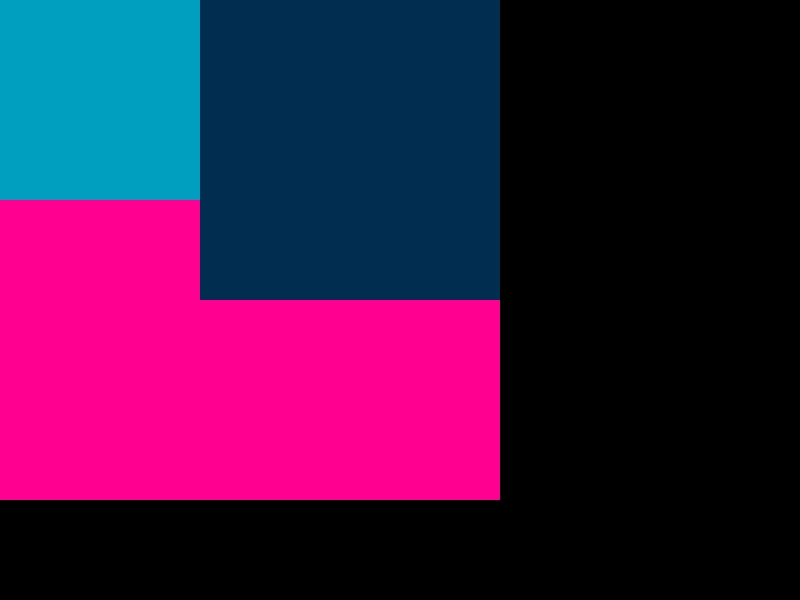
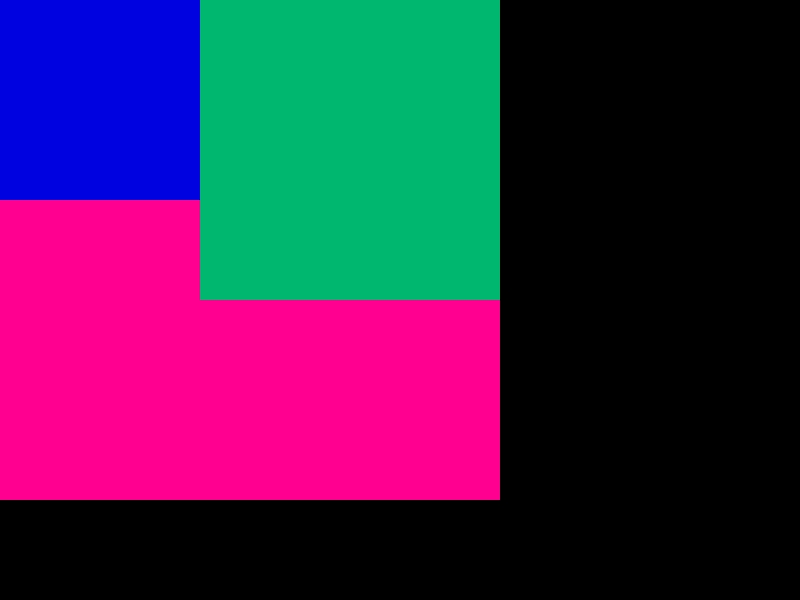
URL

Changed region(s): [[0.0, 0.0, 0.625, 0.51]]

diff --git a/node/http-bowser-process/css属性解析/css-attribute-dom.js b/node/http-bowser-process/css属性解析/css-attribute-dom.js
@@ -24,7 +24,8 @@ let cssStr = `
     height: 500px;
     background-color: rgb(255,0,0);
 }
-.main {
+
+.wrap .main {
     width: 200px;
     height: 200px;
     background-color: rgb(0,255,0);
@@ -41,6 +42,7 @@ let currentToken = null;
 let currentAttribute = null;
 let stack = [{ type: 'document', children: [] }];
 parse(htmlStr);
+console.log(rules)
 console.log(JSON.stringify(rules))
 console.log(JSON.stringify(stack[0], null, 2))
     //拿到整颗树 
@@ -89,6 +91,16 @@ viewImage.save('render.jpg')
 //     }
 // }
 
+
+
+/**
+ * 
+ * @param {String} selector 
+ * @param {JSON} ele 
+ * @function 判断样式的类型，若匹配成功则返回true,匹配不成功则返回false
+ * 
+ * 
+ */
 function match(selector, ele) {
     if (!selector || !ele.attributes) {
         return false;
@@ -115,14 +127,22 @@ function computerCss(ele) {
     // tagName #id  .className
     // .parent .cls
     // div  || div .cls  || span #parentID .parent #id
+
+    //stack.slice(0) 存在子元素和父元素 翻转则先从子元素中查找样式
+    console.log("elements----------JSON", JSON.stringify(stack.slice(0).reverse()))
     let elements = stack.slice(0).reverse();
+    console.log("elements----------", elements)
+        //若没有computerStyle属性，则初始化css属性
     if (!ele.computerStyle) ele.computerStyle = {};
     // 所有 css 规则
     for (let rule of rules) {
+        //selector [ '.main', '.wrap' ] 将样式名翻转从子样式中开始到父级结束找（从内到外查找样式）
+        //console.log(" rule.selectors[0]", rule.selectors[0]);//.wrap .main
         let selector = rule.selectors[0].split(' ').reverse();
+        // console.log("selector", selector);
         // 最后一项匹配上了
         if (!match(selector[0], ele)) {
-            // 跳过本轮循环，往后的步骤
+            // 匹配没有成功跳过本轮循环，往后的步骤
             continue;
         }
         // 看父级满不满足  
@@ -130,11 +150,13 @@ function computerCss(ele) {
         // [#id .parent  #parentID  span]
         let j = 1;
         for (let i = 0; i < elements.length; i++) {
+            //当css样式匹配上则j++
             if (match(selector[j], elements[i])) j++
         }
-        // 匹配
+        // 匹配 判断j的大小 判断将当前选择器的样全部匹配完
         if (j >= selector.length) {
             // rule rule css 规则添加到 ele
+            //当全部匹配成功则将样式添加到element.computerStyle属性中
             for (let delecare of rule.declarations) {
                 const { property, value } = delecare;
                 ele.computerStyle[property] = value
@@ -181,11 +203,19 @@ function emit(token) {
 
         // 知道 attributes , 知道 stack 里面元素 是 element 父节点
         //遇到一个开始标签则匹配一下css样式
+        /**
+         * 每一次提交标签 都会将没有添加css样式的元素去找css匹配一下
+         * element是引用类型 则不要定义全局变量
+         * 形参修改则实参也会修改：赋予地址给形参
+         * */
+        console.log("element前", element)
         computerCss(element);
+        console.log("element后", element)
+
         stack.push(element);
-        console.log("stack", JSON.stringify(stack))
-            // 作为栈顶的元素子节点，为了生成树
-            // if (!top.children) top.children = [];
+        //console.log("stack", JSON.stringify(stack))
+        // 作为栈顶的元素子节点，为了生成树
+        // if (!top.children) top.children = [];
         top.children.push(element);
     } else if (token.type === 'endTag') {
         if (token.tagName !== top.tagName) {
@@ -260,10 +290,17 @@ function tagName(c) { //记录标签的类型和字符
         return start
     }
 }
-
+/**
+ * 入口：attributeValue，tagName在这两个函数过来
+ * 功能：1. 遇见‘/’则是单标签--判断是否为单标签 
+ *      2. 遇见空格 则自我消化--消除空格
+ *      3. 遇见字母则是为样式名--拼接样式名字
+ *      4. 遇见 '>' 则是结束了该标签的拼接工作交给tagName函数去提交
+ */
 function beforeAttaibuteName(c) {
     //attributeValue在这个函数过来的要是‘/’则是单标签
     if (c === '/') { //遇见‘/’则是结束
+        //修改标签类型
         currentToken.type = 'selfCloseToken';
         return tagName;
     } else if (c.match(/[a-zA-Z]/)) { //遇见字符则是css样式名
@@ -300,8 +337,9 @@ function attributeValue(c) {
         currentAttribute.value += c;
         return attributeValue;
     } else {
-        // 空格 >
+        // 若“”之后是空格 则执行这一步
         // 消耗了
+        //若该子节点没有attributes则初始化
         if (!currentToken.attributes) currentToken.attributes = [];
         //在JSON中的attributes属性加css的类型很名字
         currentToken.attributes.push(currentAttribute);

diff --git a/node/http-bowser-process/parse-dom-1.js b/node/http-bowser-process/parse-dom-1.js
@@ -7,15 +7,16 @@ let htmlStr = `<html>
   </body>
 </html>`
 let currentToken = null;
-
+//初始化栈顶元素
 let stack = [{ type: 'document', children: [] }];
+//开始解析html字符串
 parse(htmlStr);
 console.log(JSON.stringify(stack[0], null, 2));
 
-function emit(token) {
-    console.log(token);
+function emit(token) { //提交处理好的标签
+    //console.log(token);
     let top = stack[stack.length - 1];
-    if (token.type === 'startTag') {
+    if (token.type === 'startTag') { //开始标签（标志）
         // push pop 处理配对
         let element = {
             type: 'element',
@@ -27,32 +28,34 @@ function emit(token) {
         // 作为栈顶的元素子节点，为了生成树
         // if (!top.children) top.children = [];
         top.children.push(element);
-    } else if (token.type === 'endTag') {
+    } else if (token.type === 'endTag') { //结束标签（标志）
         if (token.tagName !== top.tagName) {
             throw new Error('tagname match error')
         } else {
+            //匹配开始标签（成功）让开始标签出栈
             stack.pop();
         }
-    } else if (token.type === 'selfCloseToken') {
+    } else if (token.type === 'selfCloseToken') { //单标签（标志）
         let element = {
-            type: 'element',
-            children: [],
-            attributes: [],
-            tagName: token.tagName
-        }
+                type: 'element',
+                children: [],
+                attributes: [],
+                tagName: token.tagName
+            }
+            //将单标签  存在栈顶元素中
         top.children.push(element);
     }
     currentToken = null;
 }
 
 function parse(htmlString) {
-    state = start;
+    let state = start; //将开始函数赋值给state 
     for (let c of htmlString) {
-        state = state(c);
+        state = state(c); //将每一个字符循环处理
     }
 }
 
-function start(c) {
+function start(c) { //判断字符是否为开始标签
     if (c === '<') {
         return tagOpen
     } else {
@@ -60,11 +63,12 @@ function start(c) {
     }
 }
 
-function tagOpen(c) {
+function tagOpen(c) { //
     // <html>: html tag 由 a-zA-Z  div span p 
     // </html>
     //  h t m l
     // console.log(c);
+    //判断  为拼接做准备空间
     if (c === '/') {
         return endTagOpen
     } else if (c.match(/[a-zA-Z]/)) {
@@ -77,13 +81,14 @@ function tagOpen(c) {
 }
 
 function tagName(c) {
+    //将字符一个一个拼接到tagOpen函数准备的空间（currentToken）中
     if (c.match(/[a-zA-Z]/)) {
         currentToken.tagName += c;
         return tagName
     } else if (c.match(/[\t\n\f ]/)) { //判断遇见空格的时候
         return beforeAttaibuteName
     } else if (c === '>') {
-        // tag 拼接结束
+        // tag 拼接结束（提交拼接好的标签）
         emit(currentToken);
         return start
     }

diff --git a/node/URL/index..html b/node/URL/index..html
@@ -1,0 +1,36 @@
+<!DOCTYPE html>
+<html lang="en">
+
+<head>
+    <meta charset="UTF-8">
+    <meta name="viewport" content="width=device-width, initial-scale=1.0">
+    <title>Document</title>
+</head>
+
+<body>
+
+    <script>
+        // 实际应用场景中 url 不需要传的， 我们可以通过? 获得？
+        function getQueryString() {
+            var url = location.search; // node url 
+            console.log(url);
+            var obj = new Object();
+            if (url.indexOf('?') != -1) {
+                var str = url.substr(1);
+                console.log(str);
+            }
+
+
+            var strs = str.split("&");
+            for (var i = 0; i < strs.length; i++) {
+                obj[strs[i].split("=")[0]] = decodeURI(strs[i].split("=")[1]);
+            }
+            return obj;
+        }
+
+
+        console.log(getQueryString());
+    </script>
+</body>
+
+</html>

diff --git a/node/URL/utl.js b/node/URL/utl.js
@@ -1,0 +1,20 @@
+const URL = require('url');
+const fs = require('fs')
+
+const url = "http://baidu.com:8080/test/h?query=js#node";
+
+// console.log(URL.parse(url));
+
+// var buf = iconv.encode("Sample input string", 'win1251');
+// console.log(buf);
+// var str = iconv.decode(buf, 'win1251');
+// var str = new Buffer('hello world', binary)
+// console.log(str);
+
+// var rs = fs.createReadStream('h');
+// console.log(rs.setEncoding("utf16le"));
+
+str = "A"
+let a = str.charCodeAt();
+let a
+console.log(a.toString(16));

diff --git a/node/http-bowser-process/css属性解析/layout.js b/node/http-bowser-process/css属性解析/layout.js
@@ -1,7 +1,11 @@
 // 样式 格式化的处理
 // font-size: bold -> 800
-// with: 200px -> 逻+-  数字：200
+// width: 200px -> 逻+-  数字：200
 // backgroundColor: red;  -> rgb()
+/**
+ * 功能：将样式加工
+ * 去除width/height/...: 200px之中的px留下数值（浏览器处理方法）
+ */
 function getStyle(element) {
     if (!element.style) {
         element.style = {};

diff --git a/node/URL/readme.md b/node/URL/readme.md
@@ -1,0 +1,8 @@
+   decodeURI() 函数可对 encodeURI() 函数编码过的 URI 进行解码。
+
+    decodeURIComponent() 函数可对 encodeURIComponent() 函数编码的 URI 进行解码。
+
+    从W3C的定义和用法来看，两者没有什么区别，但是两者的参数是有区别的：
+2.使用中区别用法
+    区别：encodeURIComponent和decodeURIComponent可以编码和解码URI特殊字符（如#，/，￥等），而decodeURI则不能。
+    可以看出encodeURI和decodeURI对URI的特殊字符是没有编码和解码能力的，实际项目中我们一般需要get请求的方式在地址栏中拼接一些参数，但是参数中如果出现#，/,&这些字符，就必须要用decodeURIComponent了，不然这些特殊字符会导致我们接收参数的错误

diff --git a/node/跨域总结/readme.md b/node/跨域总结/readme.md
@@ -16,3 +16,8 @@
     不同的xhr feach ,不受跨域限制
 1. 头条面试： jsonp 后端给你返回的是什么？   
     返回一个字符串 ：拼接一个回调函数和参数字符串  
+    ## 跨域原理
+        只能处理GET类型的ajax请求跨域问题（一般的get 请求）
+        1.浏览器端：通过script标签发送的请求 加上回调函数url?callback=fff参数为响应数据
+        2.服务器端：产生结果数据，返回一个函数调用js代码，并且将结果数据作为函数实参传入回调函数
+        3. 浏览器端：收到响应后自动执行函数调用的js代码，也就执行好了之前定义的回调函数，也就得到了结果数据
